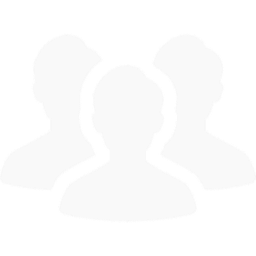
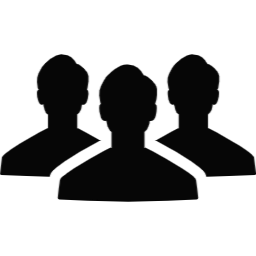
アイコンの分かりづらさが気になったので修正

diff --git a/public/css/style.css b/public/css/style.css
@@ -72,8 +72,9 @@ li {
 	font-size: 13px;
 }
 
-.icon_size {
+.icon_layout {
 	width: 20px;
+	filter: invert(100%);
 }
 
 /* トップページ */

diff --git a/resources/views/layouts/sidebar.blade.php b/resources/views/layouts/sidebar.blade.php
@@ -21,31 +21,31 @@
         <div class="d-flex">
             <div class="sidebar">
                 <p>
-                    <img src="/image/my-page.png" alt="マイページ アイコン" class="icon_size">
+                    <img src="/image/my-page.png" alt="マイページ アイコン" class="icon_layout">
                     <a href="{{ route('top.show') }}" class="font_size">マイページ</a>
                 </p>
                 <p>
-                    <img src="/image/logout.png" alt="ログアウト アイコン" class="icon_size">
+                    <img src="/image/logout.png" alt="ログアウト アイコン" class="icon_layout">
                     <a href="/logout">ログアウト</a>
                 </p>
                 <p>
-                    <img src="/image/school-reservation.png" alt="スクール予約 アイコン" class="icon_size">
+                    <img src="/image/school-reservation.png" alt="スクール予約 アイコン" class="icon_layout">
                     <a href="{{ route('calendar.general.show',['user_id' => Auth::id()]) }}">スクール予約</a>
                 </p>
                 <p>
-                    <img src="/image/school-reservation-confirmation.png" alt="スクール予約確認 アイコン" class="icon_size">
+                    <img src="/image/school-reservation-confirmation.png" alt="スクール予約確認 アイコン" class="icon_layout">
                     <a href="{{ route('calendar.admin.show',['user_id' => Auth::id()]) }}?role={{ Auth::user() -> role }}">スクール予約確認</a>
                 </p>
                 <p>
-                    <img src="/image/school-quota-registration.png" alt="スクール枠登録 アイコン" class="icon_size">
+                    <img src="/image/school-quota-registration.png" alt="スクール枠登録 アイコン" class="icon_layout">
                     <a href="{{ route('calendar.admin.setting',['user_id' => Auth::id()]) }}?role={{ Auth::user() -> role }}">スクール枠登録</a>
                 </p>
                 <p>
-                    <img src="/image/bulletin-board.png" alt="掲示板 アイコン" class="icon_size">
+                    <img src="/image/bulletin-board.png" alt="掲示板 アイコン" class="icon_layout">
                     <a href="{{ route('post.show') }}">掲示板</a>
                 </p>
                 <p>
-                    <img src="/image/user-search.png" alt="ユーザー検索 アイコン" class="icon_size">
+                    <img src="/image/user-search.png" alt="ユーザー検索 アイコン" class="icon_layout">
                     <a href="{{ route('user.show') }}">ユーザー検索</a>
                 </p>
             </div>
